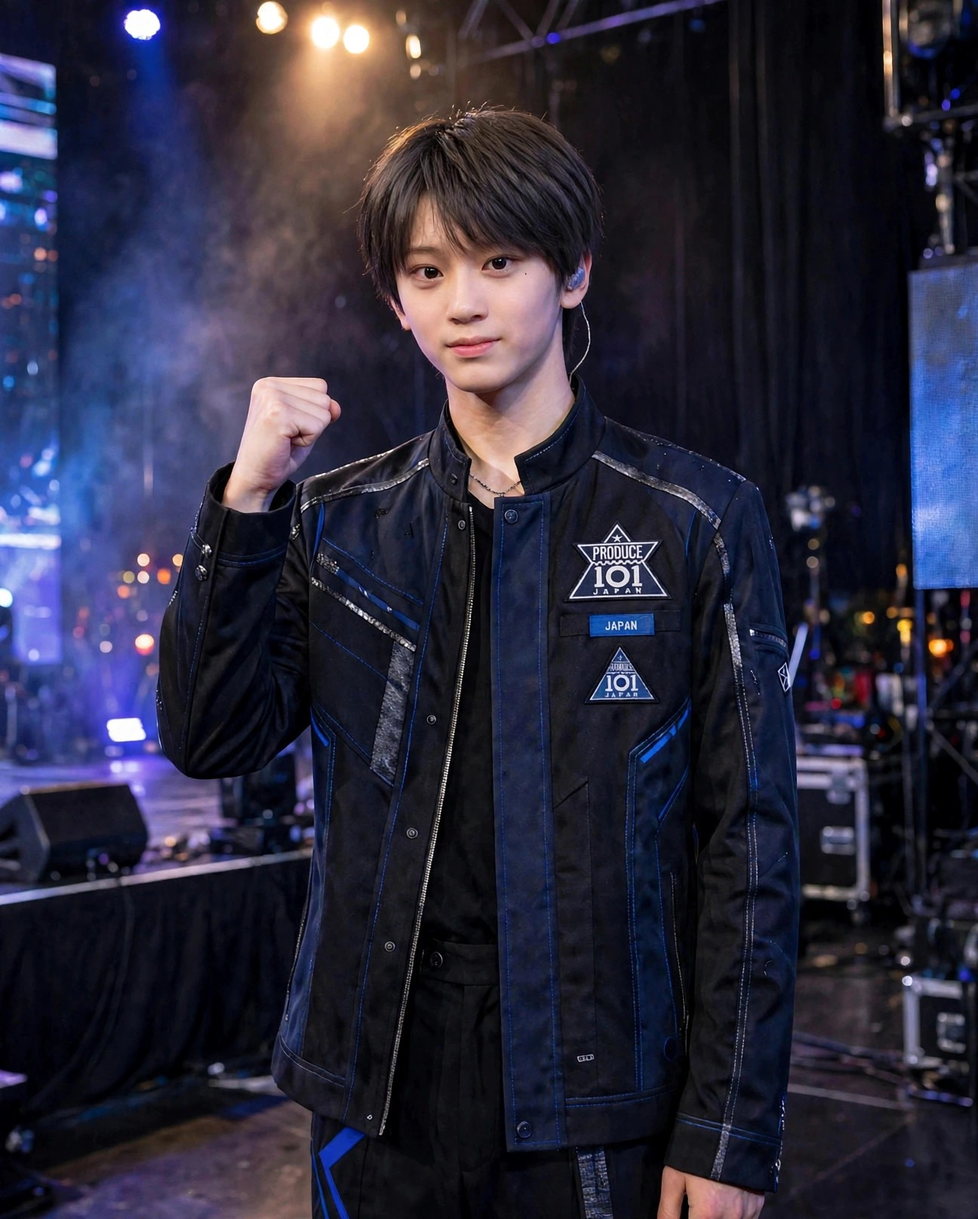
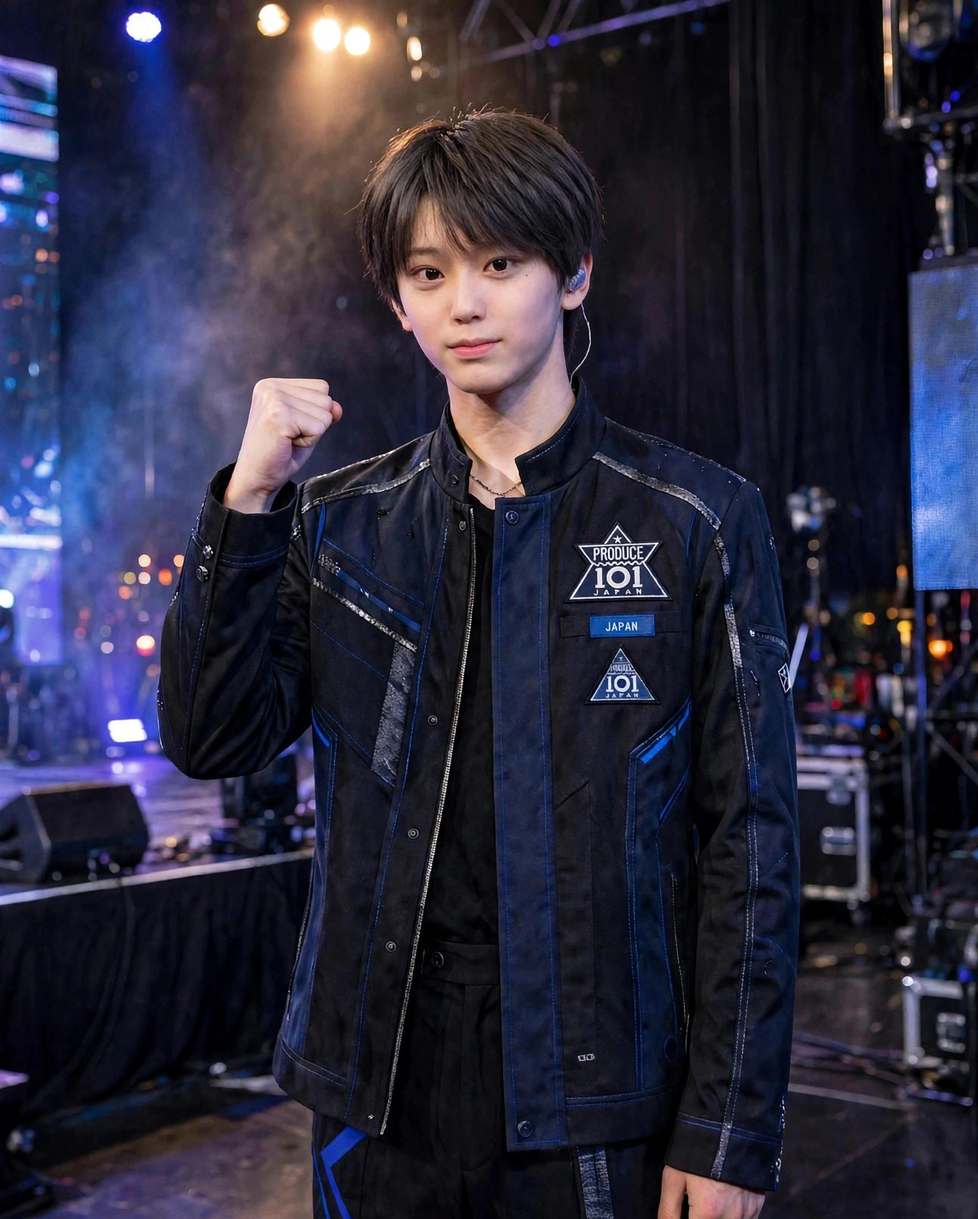
v155: 2019ステージ・順位発表カットの鼻を基準顔に修正

diff --git a/index.html b/index.html
@@ -732,7 +732,7 @@ body{font-family:-apple-system,"Hiragino Kaku Gothic ProN","Noto Sans JP",sans-s
 <script>
 "use strict";
 const $=s=>document.querySelector(s);
-const VER="v154";
+const VER="v155";
 /* ============ state ============ */
 const DEF={idx:0,started:false,consented:false,soundOn:true,
  g:{iwakan:0,bare:0,todoita:0,uta:8,dance:4,ishi:50},
@@ -2472,7 +2472,7 @@ function renderSettings(tab){setTab=tab;document.querySelectorAll("#set-tabs but
  <div class="srow"><span>到達した結末</span><span class="sv">${S.trueEnd?"TRUE END ― 現在":S.normalEnd?"END ― 通常現在":S.loopBad?"BAD END ― ループ継続":S.bareEnd?"END ― 秘密バレIF":S.ridatsuEnd?"END ― 離脱した現在":"（まだ到達していません）"}</span></div>
  <div class="srow"><span>サウンド</span><span class="sv"><button id="snd-btn" style="background:${S.soundOn!==false?"#17172a":"#c6c6d4"};color:#fff;border:none;border-radius:999px;padding:6px 18px;font-size:12.5px;font-weight:700;cursor:pointer">${S.soundOn!==false?"ON":"OFF"}</button></span></div>
  <div class="srow"><span>フィクション</span><span class="sv">実在の記録をもとにした創作です</span></div>
- <div class="srow"><span>アップデート</span><span class="sv">v16 サウンドと画面遷移／v17 差分再演REPLAYとDiff時代別表示／v18 現在の小さな変化／v19 トークのスレッドとフリーチャット／v20・v23・v32 場面カットの追加／v21 日常回（食堂の夜・売店の夜）／v22 番組アプリの情報デザイン／v24 ホーム背景の時代連動と進行％／v25 タイトルのスライドショー／v26 彼の画面のカウンタ／v27 ロック画面の通知スタック／v28 写真の全画面ビューア／v30 章ごとの記録カード／v31 フィナーレ直前の彼の視点／v33 フリーチャットの時代別応答／v34 投票レシート／v35 ミッション進捗バー／v36 ゲージの危険域表示／v37 選んだ記録の判別表示／v38 台帳の時代別表示／v39 Keepsakeの時代バッジ／v41 章名つきロック画面／v42 トークの新着バッジ／v43 名簿の詳細パネル／v44 写真のスワイプ送り／v45 BGMの時代連動／v46 順位・差分の専用SE／v47 長押し早送り／v48 章セレクト／v50 REPLAY再演の追加／v52 日常回（コンビニの夜）／v53 タイトル通知のセーブ連動／v54 アプリアイコンのバッジ／v55 主人公の正式名「三浦渚央」と2019プロフィールの新フェイス差し替え／v56〜v59 プロフィール・場面カットの新フェイス再生成／v60 カード画角の統一（頭部55〜60%）と三浦渚央の順位表示／v61 名簿メモへの順位追記と凡例／v62 周B順位発表の彼の視点／v63 ストーリーバナーのサムネ時代連動／v64 タイトルに正式名／v65 ロック画面に順位通知／v66 情報タブに順位の記録／v67 順位行の文字色修正／v68 現在の小さな変化（順位の残響）／v69 写真メモに順位結果／v70 節目 ― 全アプリ走査／v71 フリーチャットの話題追加／v72 トークのチップ追加／v73・v74 順位タブの空状態整理／v75 順位変動のDiff記録／v76 節目 ― 全アプリ走査／v77 2021周A・初回ステージ後に彼の画面を追加／v78 2023周A・ファンカム章に彼の視点（インライン）を追加／v79 2019周A・順位発表式に彼の視点（インライン）を追加／v80 2023周A・VERY NICE本番前に彼の視点（インライン）を追加／v81 2023周A・寮の夜に彼の視点（インライン）を追加／v82 2019周A・届くはずのなかった手紙に彼の視点（インライン）を追加／v83 フリーチャットの話題拡充（2019専用プール＋新キーワード6種＋チップ追加）／v84 周Aの彼の記憶の線引きで全監査（2021・2023到着場面と彼の画面3件を連続した同僚の前提に書き換え）／v85 2019周A・練習室の夜に彼の視点（インライン）を追加／v86 2021周A・寮の一夜に彼の視点（インライン）を追加／v87 2023周A・コンビニの夜に彼の視点（インライン）を追加／v88 台帳・Keepsake・Diffの時代分類を修正（NXD期グループ新設、誤分類6件を是正）／v89 場面カット追加（2023順位発表の夜・face2基準で新規生成）／v90 場面カット追加（2021ファイナルの夜・face2基準で新規生成）／v91 節目 ― 全アプリ走査／v92 日常回「自販機の夜」（2023・周B）を追加／v93 2019周A・レベル分け評価に彼の視点（インライン）を追加／v94 写真アプリに時代別グルーピング（見出し＋枚数）を追加／v95 場面カット追加（NXD期・夜の練習室、face2基準で新規生成）／v96 フリーチャットの時代別プールを拡充（各時代＋2件）／v97 2019周B・発覚に彼の視点（インライン）を追加／v98 2021周B・再会に彼の視点（インライン）を追加／v99 2023周B・発覚に彼の視点（インライン）を追加／v100 節目 ― 全編通しプレイ検証／v101 効果音の配線追加（台帳・Keepsake・彼の視点）／v102 トークに彼のメッセージを3件追加／v103 タイトルのスライドショー拡充（8枚）とホーム背景のNXD期差し替え／v104 2023周B・再会に彼の視点（インライン）を追加／v105 2021周B・売店の夜に彼の視点（インライン）を追加／v106 NXD期・周B「移籍の決断」に彼の視点（インライン）を追加／v107 2023周B・共同作戦に彼の視点（インライン）を追加／v108 2019周B・共同作戦（ツカメ対策）に彼の視点（インライン）を追加／v109 2021周B・共同作戦に彼の視点（インライン）を追加／v110 NXD期・周B「延期の季節 ― 二度目」に彼の視点（インライン）を追加／v111 フリーチャット拡充（キーワード応答3種・チップ2件・現在編プール拡充）／v112 節目 ― 全アプリ走査／v113 2023周B・自販機の夜に彼の視点（インライン）を追加／v114 2019周A・食堂の夜に彼の視点（インライン）を追加／v115 2021周B・順位発表の締めに彼の視点（インライン）を追加／v116 設計ドキュメントの実装状況を更新／v117 場面カット追加（2019食堂の夜・face2基準で新規生成）／v118 場面カット追加（2021売店の夜・face2基準で新規生成）／v119 場面カット追加（2023コンビニの夜・face2基準で新規生成）／v120 背景の差し替え（現在編の冒頭とソロデビューの場面）／v121 節目 ― 全編通しプレイ検証（v101〜v120の追加後）／v122 画像出典メモ（IMAGE_SOURCES.md）に新規カット6点とface2基準を追記／v123 READMEの状態表記を現行（本編完結・公開中）に更新／v124 視覚QAで発見した順位タブの防御的修正（順位値の欠損時に最低ラインへフォールバック）／v125 節目 ― 全画面の視覚QA（撮影確認）／v126 節目 ― 別エンディング到達検証（秘密バレIF・離脱した現在）／v127 節目 ― 全5エンディング到達検証の完了（通常現在・ループ継続BADを追加確認）／v128 設計ドキュメントの実装状況に最終検証結果を追記／v129 READMEの現行版表記を更新／v130 生成メタファイルを .gitignore に追加して作業ツリーを整理／v131 「届くはずのなかった手紙」に背景を設定（食堂カットの引き継ぎを解消）／v132 フリーチャットの応答拡充（キーワード応答8種・時代別プール各+2件・チップ2件を追加）／v133 仕上げのUI調整（ホームのアプリアイコンのラベルの可読性を向上、ストーリー画面のゲージチップを均等な3+3配置に整形）／v134 フリーチャットに語学の話題を追加（中国語・韓国語・英語へのキーワード応答）／v135 節目 ― 朝まで改修の最終版（全アプリ走査・ドキュメント同期）／v136 トークを実物化（1相手=1スレッドに集約・未読バッジ・プレビュー・実物時刻・日付チップ・自分の送信への既読表示。仕組みは『現役アイドル、Tinderやってた件』のLINEと『キープ管理中！』の未読管理から移植）／v137 2021・2023の渚央プロフィールを制服版に統一（創造営の紺制服／ボイプラの淡グレー制服。名簿・順位・パネル・背景・写真の参照を全て profile-uniform 系へ）／v138 ロック画面とホームの実物化（主通知の送信者を実アプリ名にし未読トークがあれば最新メッセージを表示、日付を月日＋曜日の実物形式に、ホームと写真の操作説明文を撤去）／v139 トークをTinder版（v462）LINEと実測比較して一致（バブルの角・色・文字サイズ、入力欄、送信ボタン、日付チップ、一覧の行構成と検索ボックス、スレッドヘッダーのアバター）／v140 トークにLINEアプリのシェルを移植（下部タブバー＋タブ画面を新設。タブの数・並び・切替挙動はTinder版LINEと同一で、ホームタブは三浦渚央のプロフィール＋届いた応援カード＋友だちリストのパネル、ニュースは番組アプリ、その他は設定・記録へ接続）／v141 ロック画面の進化（時計を88px・太字に、通知カードをblur20px＋saturateの実物仕様にして幅を統一、スタック通知のアイコンをアプリ別SVGに分けて出現をスタッガード化。ステータスバーと電池％を追加し、壁紙を時代連動＋緩やかなズームに。下部のライトは白フラッシュが光る実働ボタンに、カメラは写真アプリへ直行。通知はタップで該当アプリ・記録へ遷移）／v142 ホーム画面の進化（Tinder版ホームのページ構成を移植：飾りだったドットを実働の2ページ化にし、横スワイプとドットタップで切替。2ページ目に物語暦のカレンダーウィジェットと時代のカットが切り替わる写真ウィジェットを新設し、記録サマリと次のミッションを移設。ドットの横に検索ピルを追加し、アプリ・記録を検索して直接開けるシートを実装。下部にガラスのドック（トーク／写真／番組アプリ／設定・記録、バッジ連動）を追加。ステータスバーに電池％、壁紙に緩やかなズーム）／v143 ロック画面の通知スタックの隙間を修正（ベースCSSの上マージン34pxがスタック内の通知にも効いて間隔が42pxに広がっていたのを、実物どおり8pxに統一。あわせて通知領域を時計の下〜下部ボタンの上のスクロール領域にして、通知が多くてもライト／カメラのボタンやヒント文字に重ならないようにした）／v144 写真アプリの進化（『現役アイドル、Tinderやってた件』の写真アプリから移植：2列カード型だったグリッドを3列・隙間2px・正方形の実物仕様にし、時代見出し＋枚数のヘッダーと上部のピル型タブ（すべて／時代別で絞り込み）を新設。ビューアはお気に入り（セーブに保持、グリッドにもハート表示）とスライドショーを追加し、送りを循環式から端で止まるクランプ式に変更、キャプション＋差分メモ＋時代＋通し番号のメタ表示とキー操作に対応。複数選択モード（最大4枚）からコラージュを作成でき、ロック画面の壁紙にも設定できる（時代連動に戻す導線つき）。中身の時代別カットと枚数は従来どおり）／v145 アプリアイコンをTinder版の様式に統一（アイコンを全面SVG化し、背景レイヤーまで1枚に収める方式へ。トーク＝LINE・写真・設定・記録はTinder版と同型のアイコンに、番組アプリは金の縦グラデーション＋王冠のグリフで同水準に。アイコンの角丸と影もTinder版の実測値に一致。あわせてラベル用ピルのCSSがドックのアイコンにも漏れて円形になっていた不具合を修正し、ドックでもグリッドと同じ角丸アイコンが並ぶようにした）／v147 渚央の顔を最終基準（本人の写真由来の顔＋クールな髪型）へ差し替え開始。2023編のプロフィール（基準画像そのものへ差し替え、カード用クロップも新基準で作成）と場面カット全8点を基準顔で再生成／v148 2021編を新基準へ差し替え（プロフィールは19歳相当＋創造営制服＋屋外背景で新規生成、カード用クロップも作成。場面カット5点＝daily／practice／ranking-close／study／shop-nightを19歳相当の基準顔で再生成。stageは次版で差し替え予定）／v149 2019編を新基準へ全面差し替え（プロフィールは17歳相当で再生成し直し、カード用クロップも新規作成。場面カット7点＝stage／stage2／dorm／practice／ranking-close／selfie／cafeteriaを17歳相当の基準顔で再生成）。リンクプレビュー用のog:image（新stageから作成）も新設／v150 旧素材（候補ファイル群・旧プロフィール）を保管庫へ退避し、顔素材を新基準のラインに統一（表示内容の変更なし）／v151 2021のステージカットを新顔基準（19歳版）で差し替え、顔の全面差し替えが完了／v153 2021プロフィールに創造営の学員証を追加（メンバーが付けている装着物に合わせた。2019は名札が既存仕様どおり、2023は装着物なしが実物どおり）。<br>v152 全時代のプロフィールをポーズ付きに作り直し（2019＝ガッツポーズの全身ショット、2021＝頬ハートの膝上ショット、2023＝腕組みのウエスト上ショット。顔は新基準のラインを維持し、寄りクロップも新しい全身から作り直し）<br>v154 全身カットの脚の比率を修正（2019・2021の練習室カットを脚長・細身のモデル体型プロポーションで再生成。構図・ポーズ・顔は維持）</span></div>
+ <div class="srow"><span>アップデート</span><span class="sv">v16 サウンドと画面遷移／v17 差分再演REPLAYとDiff時代別表示／v18 現在の小さな変化／v19 トークのスレッドとフリーチャット／v20・v23・v32 場面カットの追加／v21 日常回（食堂の夜・売店の夜）／v22 番組アプリの情報デザイン／v24 ホーム背景の時代連動と進行％／v25 タイトルのスライドショー／v26 彼の画面のカウンタ／v27 ロック画面の通知スタック／v28 写真の全画面ビューア／v30 章ごとの記録カード／v31 フィナーレ直前の彼の視点／v33 フリーチャットの時代別応答／v34 投票レシート／v35 ミッション進捗バー／v36 ゲージの危険域表示／v37 選んだ記録の判別表示／v38 台帳の時代別表示／v39 Keepsakeの時代バッジ／v41 章名つきロック画面／v42 トークの新着バッジ／v43 名簿の詳細パネル／v44 写真のスワイプ送り／v45 BGMの時代連動／v46 順位・差分の専用SE／v47 長押し早送り／v48 章セレクト／v50 REPLAY再演の追加／v52 日常回（コンビニの夜）／v53 タイトル通知のセーブ連動／v54 アプリアイコンのバッジ／v55 主人公の正式名「三浦渚央」と2019プロフィールの新フェイス差し替え／v56〜v59 プロフィール・場面カットの新フェイス再生成／v60 カード画角の統一（頭部55〜60%）と三浦渚央の順位表示／v61 名簿メモへの順位追記と凡例／v62 周B順位発表の彼の視点／v63 ストーリーバナーのサムネ時代連動／v64 タイトルに正式名／v65 ロック画面に順位通知／v66 情報タブに順位の記録／v67 順位行の文字色修正／v68 現在の小さな変化（順位の残響）／v69 写真メモに順位結果／v70 節目 ― 全アプリ走査／v71 フリーチャットの話題追加／v72 トークのチップ追加／v73・v74 順位タブの空状態整理／v75 順位変動のDiff記録／v76 節目 ― 全アプリ走査／v77 2021周A・初回ステージ後に彼の画面を追加／v78 2023周A・ファンカム章に彼の視点（インライン）を追加／v79 2019周A・順位発表式に彼の視点（インライン）を追加／v80 2023周A・VERY NICE本番前に彼の視点（インライン）を追加／v81 2023周A・寮の夜に彼の視点（インライン）を追加／v82 2019周A・届くはずのなかった手紙に彼の視点（インライン）を追加／v83 フリーチャットの話題拡充（2019専用プール＋新キーワード6種＋チップ追加）／v84 周Aの彼の記憶の線引きで全監査（2021・2023到着場面と彼の画面3件を連続した同僚の前提に書き換え）／v85 2019周A・練習室の夜に彼の視点（インライン）を追加／v86 2021周A・寮の一夜に彼の視点（インライン）を追加／v87 2023周A・コンビニの夜に彼の視点（インライン）を追加／v88 台帳・Keepsake・Diffの時代分類を修正（NXD期グループ新設、誤分類6件を是正）／v89 場面カット追加（2023順位発表の夜・face2基準で新規生成）／v90 場面カット追加（2021ファイナルの夜・face2基準で新規生成）／v91 節目 ― 全アプリ走査／v92 日常回「自販機の夜」（2023・周B）を追加／v93 2019周A・レベル分け評価に彼の視点（インライン）を追加／v94 写真アプリに時代別グルーピング（見出し＋枚数）を追加／v95 場面カット追加（NXD期・夜の練習室、face2基準で新規生成）／v96 フリーチャットの時代別プールを拡充（各時代＋2件）／v97 2019周B・発覚に彼の視点（インライン）を追加／v98 2021周B・再会に彼の視点（インライン）を追加／v99 2023周B・発覚に彼の視点（インライン）を追加／v100 節目 ― 全編通しプレイ検証／v101 効果音の配線追加（台帳・Keepsake・彼の視点）／v102 トークに彼のメッセージを3件追加／v103 タイトルのスライドショー拡充（8枚）とホーム背景のNXD期差し替え／v104 2023周B・再会に彼の視点（インライン）を追加／v105 2021周B・売店の夜に彼の視点（インライン）を追加／v106 NXD期・周B「移籍の決断」に彼の視点（インライン）を追加／v107 2023周B・共同作戦に彼の視点（インライン）を追加／v108 2019周B・共同作戦（ツカメ対策）に彼の視点（インライン）を追加／v109 2021周B・共同作戦に彼の視点（インライン）を追加／v110 NXD期・周B「延期の季節 ― 二度目」に彼の視点（インライン）を追加／v111 フリーチャット拡充（キーワード応答3種・チップ2件・現在編プール拡充）／v112 節目 ― 全アプリ走査／v113 2023周B・自販機の夜に彼の視点（インライン）を追加／v114 2019周A・食堂の夜に彼の視点（インライン）を追加／v115 2021周B・順位発表の締めに彼の視点（インライン）を追加／v116 設計ドキュメントの実装状況を更新／v117 場面カット追加（2019食堂の夜・face2基準で新規生成）／v118 場面カット追加（2021売店の夜・face2基準で新規生成）／v119 場面カット追加（2023コンビニの夜・face2基準で新規生成）／v120 背景の差し替え（現在編の冒頭とソロデビューの場面）／v121 節目 ― 全編通しプレイ検証（v101〜v120の追加後）／v122 画像出典メモ（IMAGE_SOURCES.md）に新規カット6点とface2基準を追記／v123 READMEの状態表記を現行（本編完結・公開中）に更新／v124 視覚QAで発見した順位タブの防御的修正（順位値の欠損時に最低ラインへフォールバック）／v125 節目 ― 全画面の視覚QA（撮影確認）／v126 節目 ― 別エンディング到達検証（秘密バレIF・離脱した現在）／v127 節目 ― 全5エンディング到達検証の完了（通常現在・ループ継続BADを追加確認）／v128 設計ドキュメントの実装状況に最終検証結果を追記／v129 READMEの現行版表記を更新／v130 生成メタファイルを .gitignore に追加して作業ツリーを整理／v131 「届くはずのなかった手紙」に背景を設定（食堂カットの引き継ぎを解消）／v132 フリーチャットの応答拡充（キーワード応答8種・時代別プール各+2件・チップ2件を追加）／v133 仕上げのUI調整（ホームのアプリアイコンのラベルの可読性を向上、ストーリー画面のゲージチップを均等な3+3配置に整形）／v134 フリーチャットに語学の話題を追加（中国語・韓国語・英語へのキーワード応答）／v135 節目 ― 朝まで改修の最終版（全アプリ走査・ドキュメント同期）／v136 トークを実物化（1相手=1スレッドに集約・未読バッジ・プレビュー・実物時刻・日付チップ・自分の送信への既読表示。仕組みは『現役アイドル、Tinderやってた件』のLINEと『キープ管理中！』の未読管理から移植）／v137 2021・2023の渚央プロフィールを制服版に統一（創造営の紺制服／ボイプラの淡グレー制服。名簿・順位・パネル・背景・写真の参照を全て profile-uniform 系へ）／v138 ロック画面とホームの実物化（主通知の送信者を実アプリ名にし未読トークがあれば最新メッセージを表示、日付を月日＋曜日の実物形式に、ホームと写真の操作説明文を撤去）／v139 トークをTinder版（v462）LINEと実測比較して一致（バブルの角・色・文字サイズ、入力欄、送信ボタン、日付チップ、一覧の行構成と検索ボックス、スレッドヘッダーのアバター）／v140 トークにLINEアプリのシェルを移植（下部タブバー＋タブ画面を新設。タブの数・並び・切替挙動はTinder版LINEと同一で、ホームタブは三浦渚央のプロフィール＋届いた応援カード＋友だちリストのパネル、ニュースは番組アプリ、その他は設定・記録へ接続）／v141 ロック画面の進化（時計を88px・太字に、通知カードをblur20px＋saturateの実物仕様にして幅を統一、スタック通知のアイコンをアプリ別SVGに分けて出現をスタッガード化。ステータスバーと電池％を追加し、壁紙を時代連動＋緩やかなズームに。下部のライトは白フラッシュが光る実働ボタンに、カメラは写真アプリへ直行。通知はタップで該当アプリ・記録へ遷移）／v142 ホーム画面の進化（Tinder版ホームのページ構成を移植：飾りだったドットを実働の2ページ化にし、横スワイプとドットタップで切替。2ページ目に物語暦のカレンダーウィジェットと時代のカットが切り替わる写真ウィジェットを新設し、記録サマリと次のミッションを移設。ドットの横に検索ピルを追加し、アプリ・記録を検索して直接開けるシートを実装。下部にガラスのドック（トーク／写真／番組アプリ／設定・記録、バッジ連動）を追加。ステータスバーに電池％、壁紙に緩やかなズーム）／v143 ロック画面の通知スタックの隙間を修正（ベースCSSの上マージン34pxがスタック内の通知にも効いて間隔が42pxに広がっていたのを、実物どおり8pxに統一。あわせて通知領域を時計の下〜下部ボタンの上のスクロール領域にして、通知が多くてもライト／カメラのボタンやヒント文字に重ならないようにした）／v144 写真アプリの進化（『現役アイドル、Tinderやってた件』の写真アプリから移植：2列カード型だったグリッドを3列・隙間2px・正方形の実物仕様にし、時代見出し＋枚数のヘッダーと上部のピル型タブ（すべて／時代別で絞り込み）を新設。ビューアはお気に入り（セーブに保持、グリッドにもハート表示）とスライドショーを追加し、送りを循環式から端で止まるクランプ式に変更、キャプション＋差分メモ＋時代＋通し番号のメタ表示とキー操作に対応。複数選択モード（最大4枚）からコラージュを作成でき、ロック画面の壁紙にも設定できる（時代連動に戻す導線つき）。中身の時代別カットと枚数は従来どおり）／v145 アプリアイコンをTinder版の様式に統一（アイコンを全面SVG化し、背景レイヤーまで1枚に収める方式へ。トーク＝LINE・写真・設定・記録はTinder版と同型のアイコンに、番組アプリは金の縦グラデーション＋王冠のグリフで同水準に。アイコンの角丸と影もTinder版の実測値に一致。あわせてラベル用ピルのCSSがドックのアイコンにも漏れて円形になっていた不具合を修正し、ドックでもグリッドと同じ角丸アイコンが並ぶようにした）／v147 渚央の顔を最終基準（本人の写真由来の顔＋クールな髪型）へ差し替え開始。2023編のプロフィール（基準画像そのものへ差し替え、カード用クロップも新基準で作成）と場面カット全8点を基準顔で再生成／v148 2021編を新基準へ差し替え（プロフィールは19歳相当＋創造営制服＋屋外背景で新規生成、カード用クロップも作成。場面カット5点＝daily／practice／ranking-close／study／shop-nightを19歳相当の基準顔で再生成。stageは次版で差し替え予定）／v149 2019編を新基準へ全面差し替え（プロフィールは17歳相当で再生成し直し、カード用クロップも新規作成。場面カット7点＝stage／stage2／dorm／practice／ranking-close／selfie／cafeteriaを17歳相当の基準顔で再生成）。リンクプレビュー用のog:image（新stageから作成）も新設／v150 旧素材（候補ファイル群・旧プロフィール）を保管庫へ退避し、顔素材を新基準のラインに統一（表示内容の変更なし）／v151 2021のステージカットを新顔基準（19歳版）で差し替え、顔の全面差し替えが完了／v153 2021プロフィールに創造営の学員証を追加（メンバーが付けている装着物に合わせた。2019は名札が既存仕様どおり、2023は装着物なしが実物どおり）。<br>v152 全時代のプロフィールをポーズ付きに作り直し（2019＝ガッツポーズの全身ショット、2021＝頬ハートの膝上ショット、2023＝腕組みのウエスト上ショット。顔は新基準のラインを維持し、寄りクロップも新しい全身から作り直し）<br>v154 全身カットの脚の比率を修正（2019・2021の練習室カットを脚長・細身のモデル体型プロポーションで再生成。構図・ポーズ・顔は維持）<br>v155 鼻の大きさを基準顔に修正（2019ステージカットと順位発表カットの鼻を、基準の小さく細い鼻筋＋小さく上向きの鼻先に寄せて再生成。構図・衣装・表情は維持）</span></div>
  <div class="pad"><p class="small">エンディングは5種（TRUE現在／通常現在／離脱した現在／秘密バレIF／ループ継続BAD）。結末は、彼の岐路での関わり・手がかり（Keepsakeと届いた数）・男装バレ度・最後の選択で分かれます。なお「デビューしてしまう現在」はIF候補として設計にのみ記録され、本編では採用していません（デビューメンバー構成は不変のため）。</p></div>
  <div class="pad"><button class="btn" id="reset-btn" style="background:#ff3b30">データを消して最初から</button></div>`;
  const rb=$("#reset-btn");if(rb)rb.onclick=()=>{if(confirm("セーブデータを消して最初から始めますか？")){localStorage.removeItem("tlSaveV2");location.reload();}};
